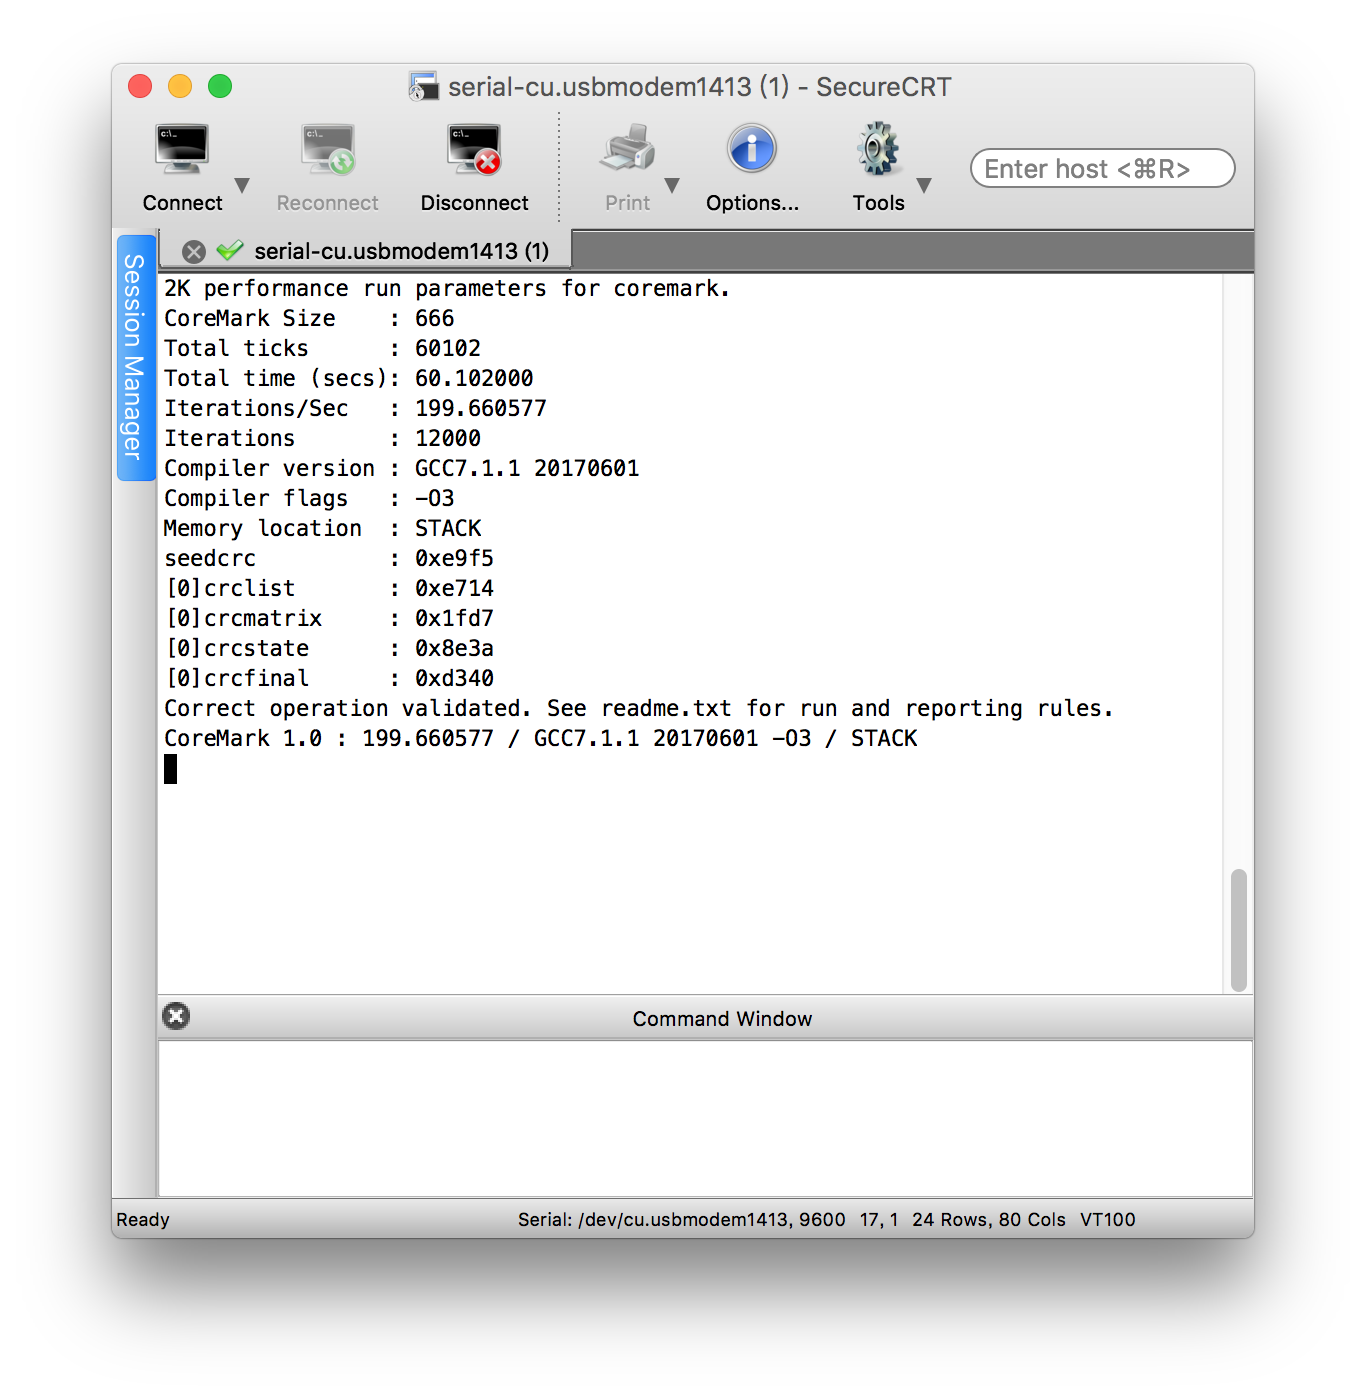
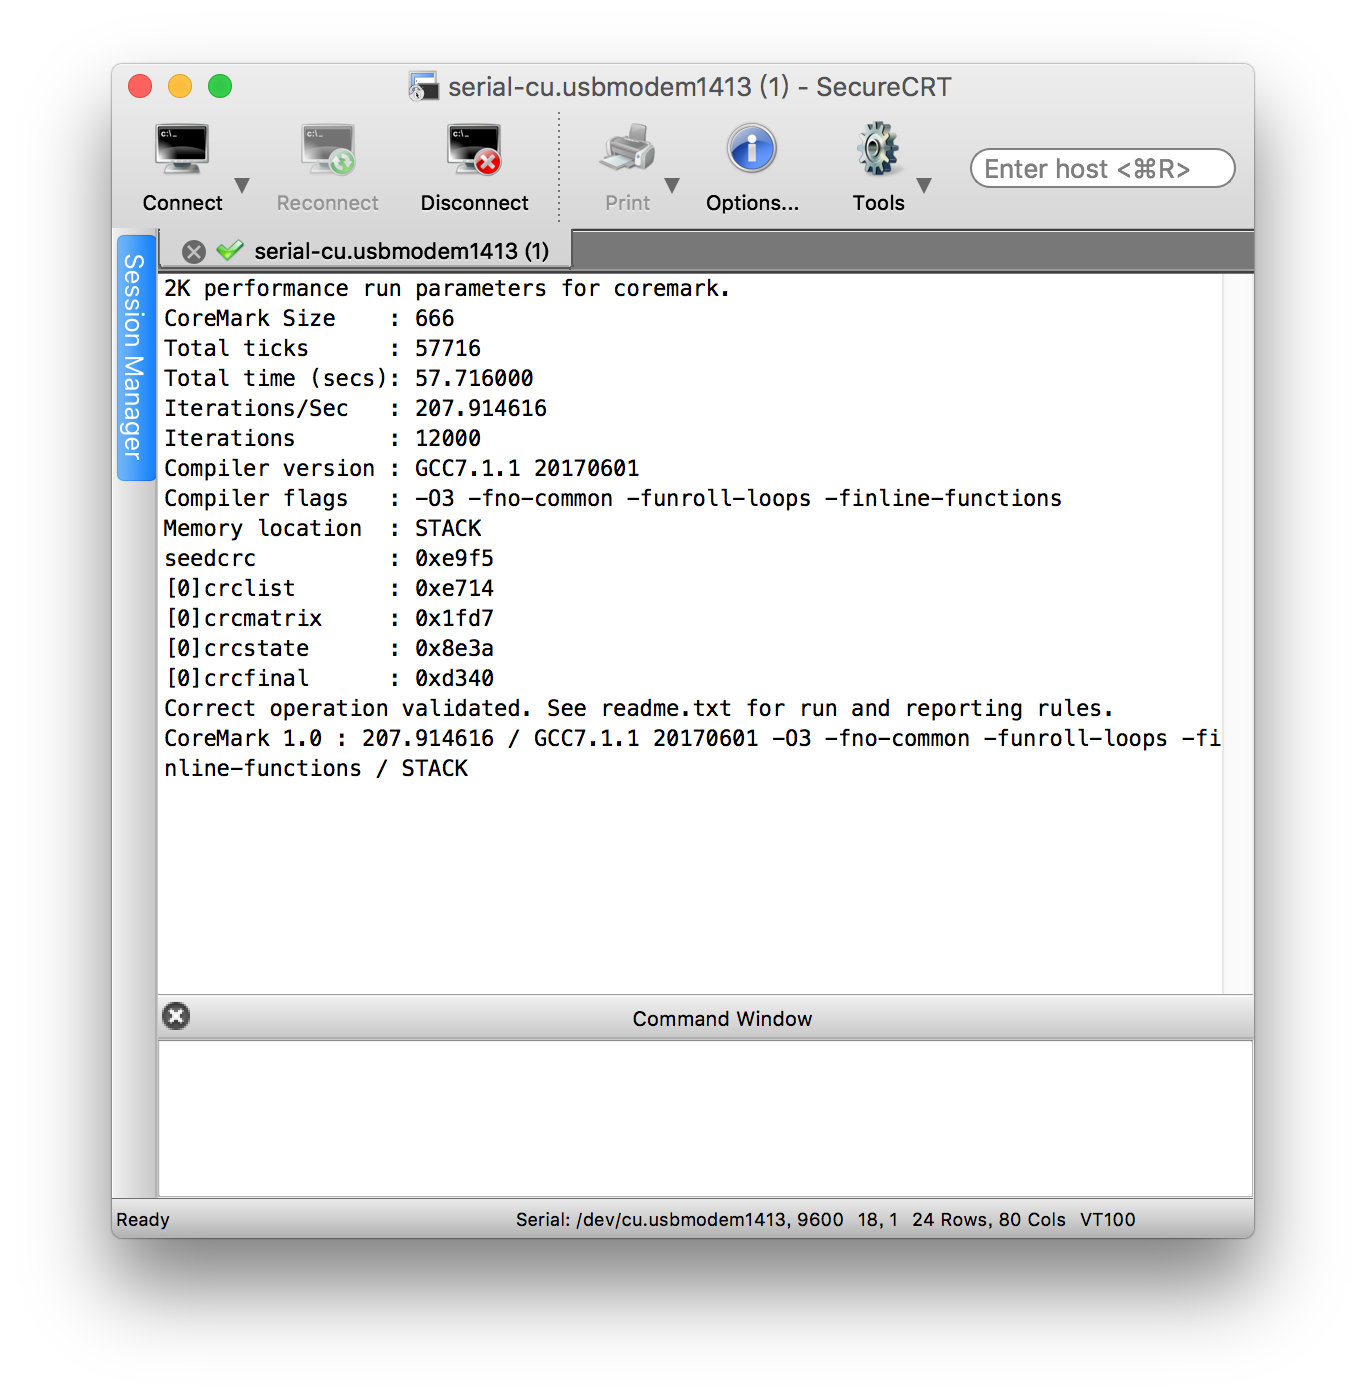
modify CFlags

diff --git a/Inc/core_portme.h b/Inc/core_portme.h
@@ -63,7 +63,7 @@ typedef clock_t CORE_TICKS;
 #endif
 #ifndef COMPILER_FLAGS
 // #define COMPILER_FLAGS FLAGS_STR /* "Please put compiler flags here (e.g. -o3)" */
- #define COMPILER_FLAGS "-O3"
+ #define COMPILER_FLAGS "-O3 -fno-common -funroll-loops -finline-functions"
 #endif
 #ifndef MEM_LOCATION
  #define MEM_LOCATION "STACK"
